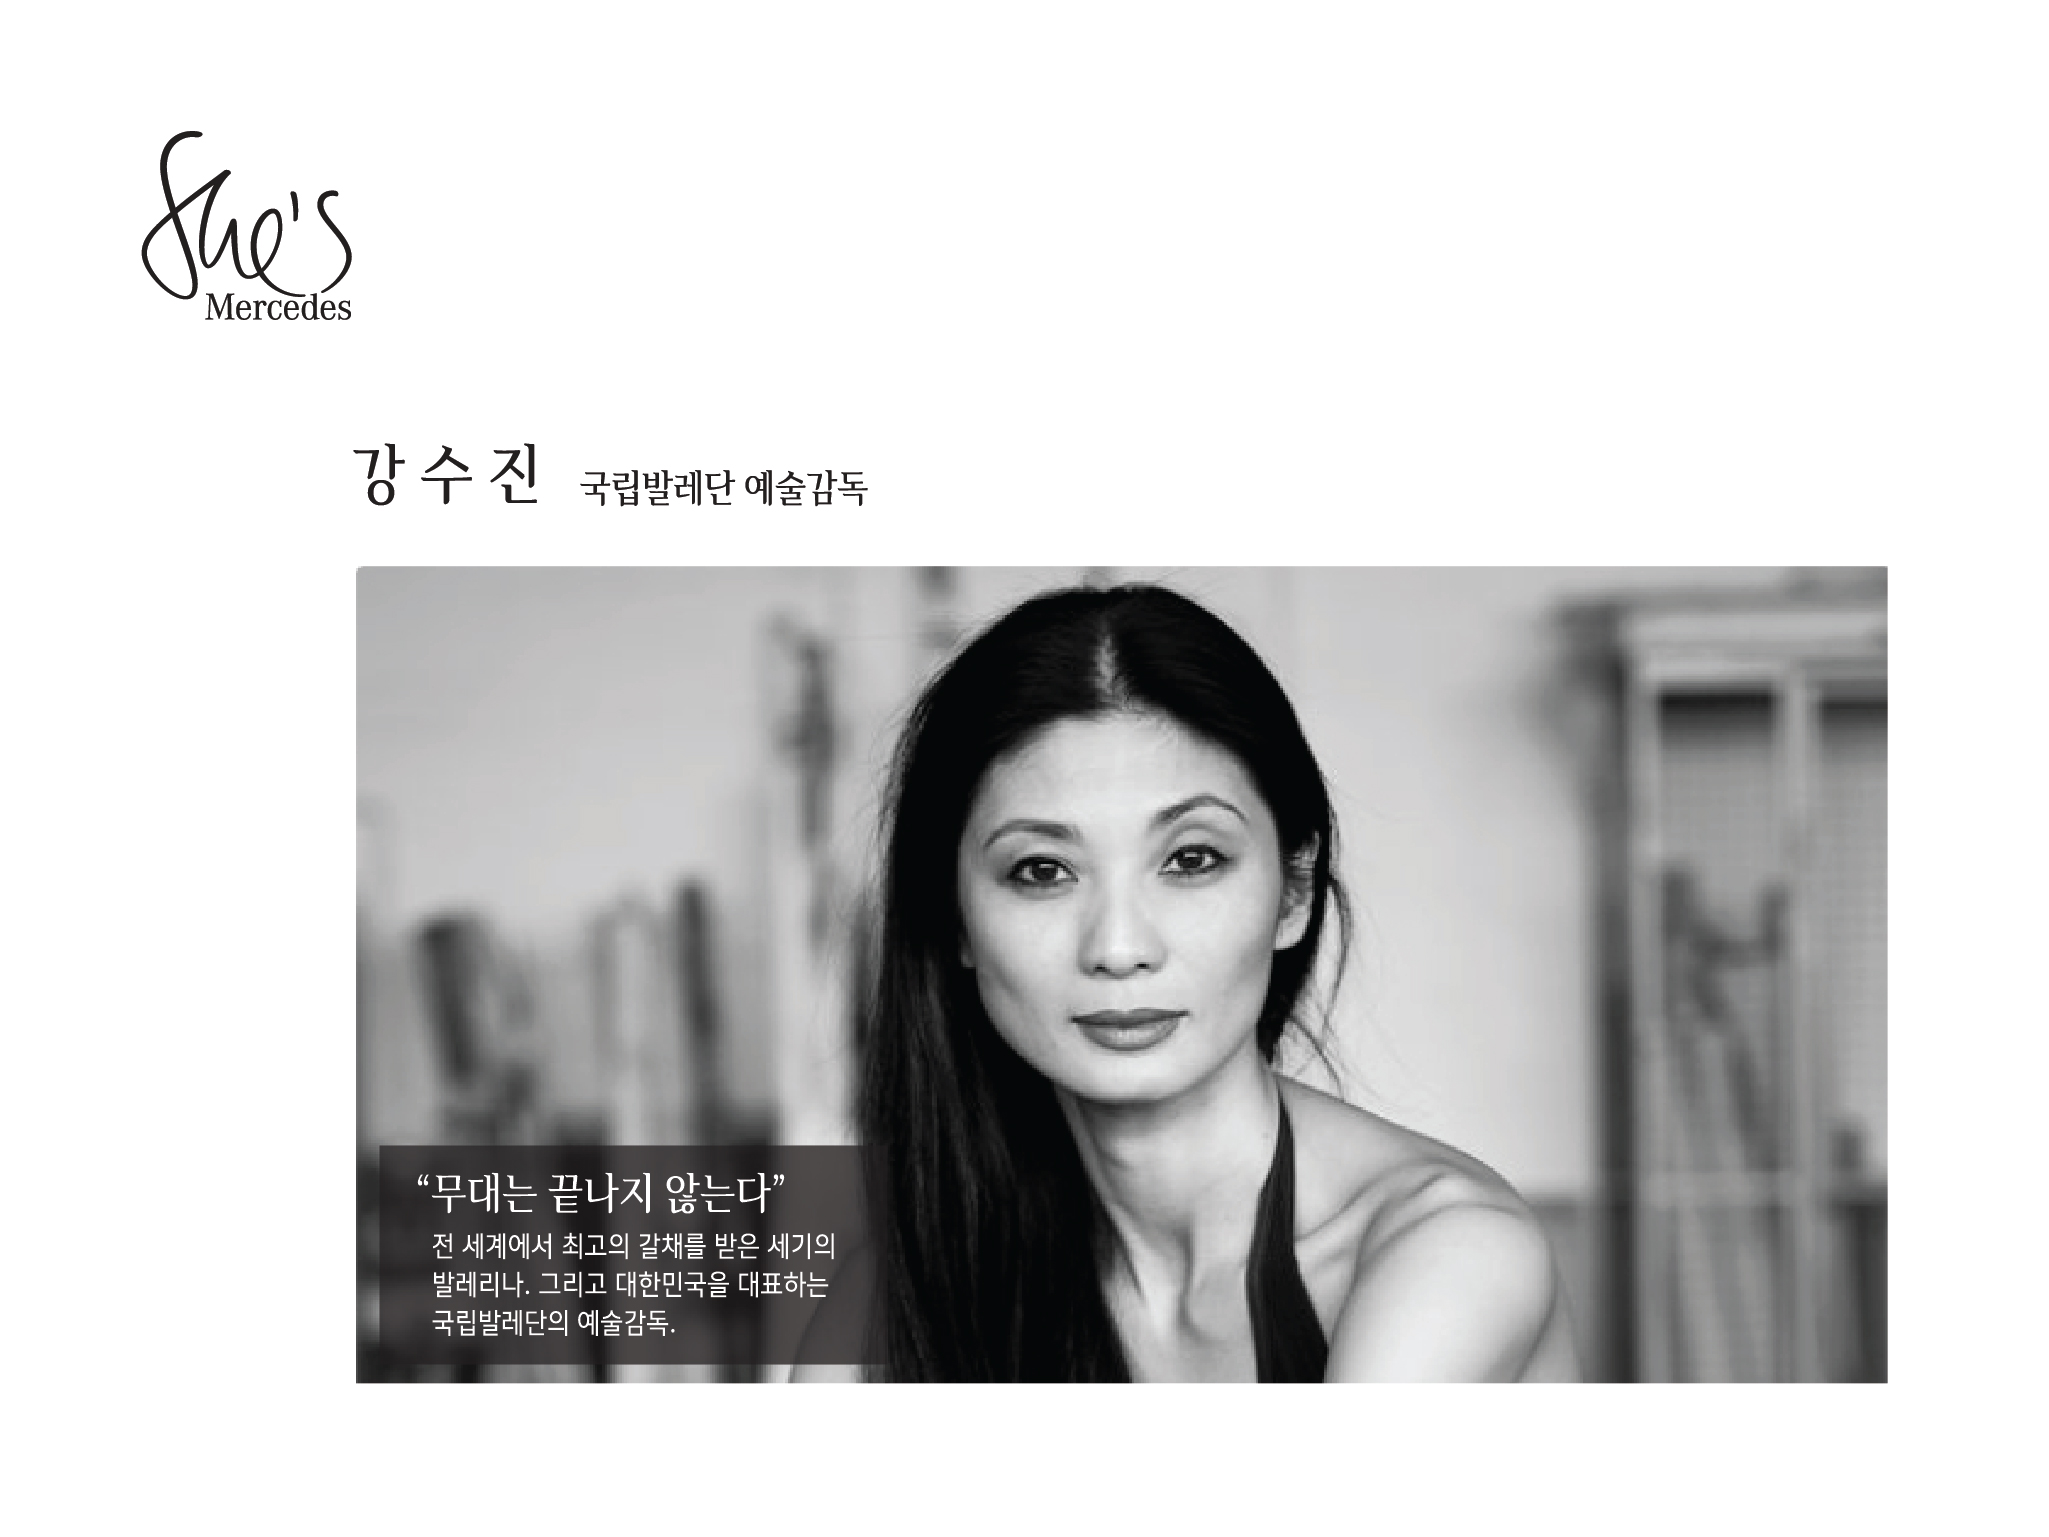
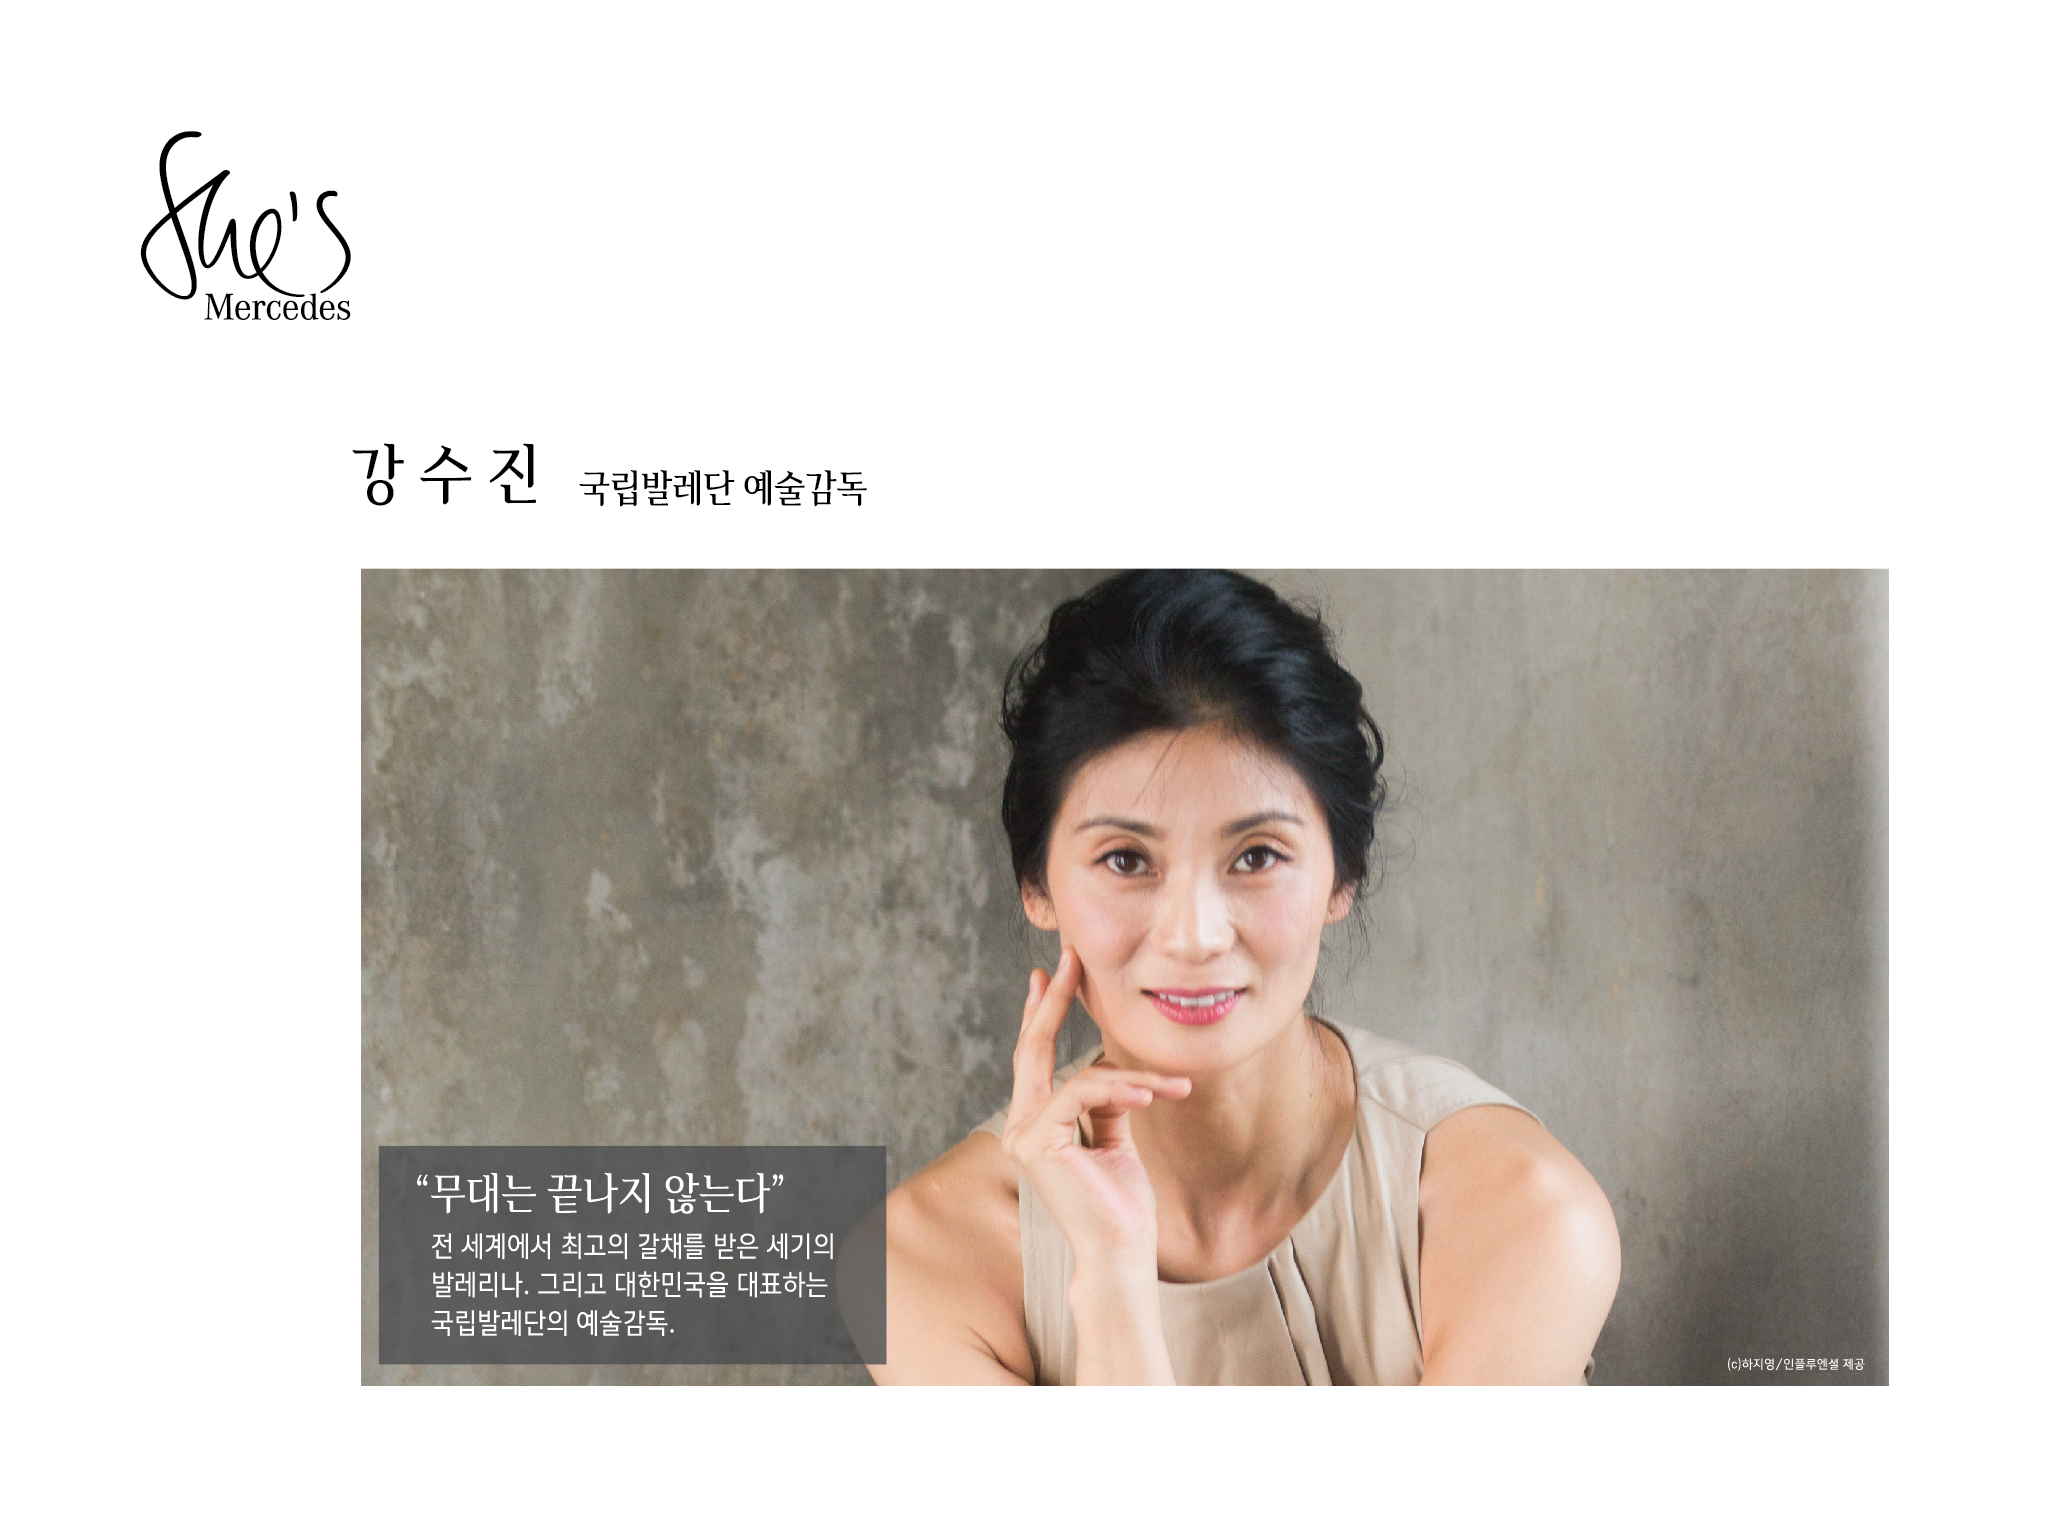
up
dup

diff --git a/Stories.html b/Stories.html
@@ -105,7 +105,7 @@
 
 <!--=============== muted , loop , autoplay   ===============-->
          <div class="media-wrapper">                                     
-<video webkit-playsinline playsinline poster="video/video1.jpg" id="bgvid" fullscreen>
+<video webkit-playsinline playsinline poster="video/video2.jpg" id="bgvid" fullscreen>
     <source src="video/video2.mp4" type="video/mp4">
 </video>
                                 </div></div>
